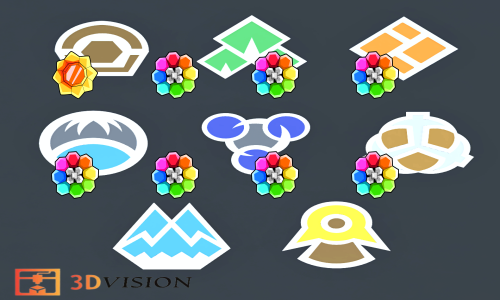
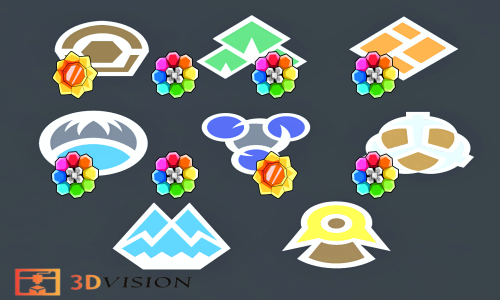
added elo command

Changed region(s): [[0.48, 0.48, 0.6, 0.66]]

diff --git a/commands/utility/calculateelo.js b/commands/utility/calculateelo.js
@@ -1,0 +1,89 @@
+import User from "../../model/user.model.js";
+
+import { SlashCommandBuilder} from 'discord.js';
+
+const data = new SlashCommandBuilder()
+    .setName('calculateelo')
+    .setDescription('Calculate Elo for two users!')
+    .addUserOption(option =>
+        option.setName('winner')
+            .setDescription('The winner user')
+            .setRequired(true))
+    .addUserOption(option =>
+        option.setName('loser')
+            .setDescription('The loser user')
+            .setRequired(true));
+
+async function execute(interaction) {
+    // Obtenemos el objeto User del parámetro 'winner'
+    const winner = interaction.options.getUser('winner');
+
+    // Obtenemos el objeto User del parámetro 'loser'
+    const loser = interaction.options.getUser('loser');
+
+    // Actualizamos el Elo de los usuarios
+    try {
+        const winnerUser = await User.findOneAndUpdate({ _id: winner.id }, { $setOnInsert: { elo: 1000, trainerName: winner.username } }, { upsert: true, new: true });
+        const loserUser = await User.findOneAndUpdate({ _id: loser.id }, { $setOnInsert: { elo: 1000,  trainerName: loser.username } }, { upsert: true, new: true });
+
+        const elow = winnerUser.elo;
+        const elol = loserUser.elo;
+        console.log(elow)
+        // Actualiza el Elo de los usuarios
+        await updateElo(winnerUser._id, loserUser._id);
+
+        const winnerUse = await User.findById(winnerUser._id);
+        const loserUse = await User.findById(loserUser._id);
+        
+        // Respondemos a la interacción
+        await interaction.reply(`Elo updated successfully for ${winner.username} and ${loser.username}!
+        Elo change for ${winner.username}: + ${winnerUse.elo - elow}
+        Elo change for ${loser.username}: - ${elol - loserUse.elo}`);
+    } catch (error) {
+        console.error(error);
+        await interaction.reply('There was an error updating the Elo.');
+    }
+}
+
+async function updateElo(winnerId, loserId) {
+    // Busca al ganador y al perdedor en la base de datos
+    const winner = await User.findById(winnerId);
+    const loser = await User.findById(loserId);
+
+    // Calcula el factor K para cada jugador
+    const kWinner = getKFactor(winner.elo);
+    const kLoser = getKFactor(loser.elo);
+
+    // Calcula el Elo esperado para cada jugador
+    const expectedWinner = 1 / (1 + Math.pow(10, (loser.elo - winner.elo) / 400));
+    const expectedLoser = 1 - expectedWinner;
+
+    // Actualiza el Elo de cada jugador
+    winner.elo = parseInt(Math.round(winner.elo + kWinner * (1 - expectedWinner)), 10);
+    loser.elo = parseInt(Math.round(loser.elo + kLoser * (0 - expectedLoser)), 10);
+      
+    // Establece un piso de calificación de 1000
+    if (winner.elo < 1000) winner.elo = 1000;
+    if (loser.elo < 1000) loser.elo = 1000;
+
+    // Guarda los nuevos valores de Elo en la base de datos
+    await winner.save();
+    await loser.save();
+
+    console.log(`Nuevo Elo del ganador: ${Math.round(winner.elo)}`);
+    console.log(`Nuevo Elo del perdedor: ${Math.round(loser.elo)}`);
+}
+
+function getKFactor(elo) {
+    if (elo < 1100) {
+        return 80 - (30 * (elo - 1000) / 100);
+    } else if (elo < 1300) {
+        return 50;
+    } else if (elo < 1600) {
+        return 40;
+    } else {
+        return 32;
+    }
+}
+
+export default { data, execute };

diff --git a/commands/utility/getElos.js b/commands/utility/getElos.js
@@ -1,0 +1,20 @@
+import User from "../../model/user.model.js";
+
+import { SlashCommandBuilder } from "discord.js";
+
+    const data =new SlashCommandBuilder()
+        .setName('getelos')
+        .setDescription('Obtiene una lista de todos los Elo de mayor a menor');
+    
+        async function execute(interaction) {
+        // Busca todos los usuarios en la base de datos y los ordena por Elo de mayor a menor
+        const users = await User.find().sort({ elo: -1 });
+
+        // Crea una lista de los Elo de los usuarios
+        const eloList = users.map(user => `${user.trainerName}: ${user.elo}`).join('\n');
+
+        // Devuelve la lista de Elo
+        await interaction.reply(eloList);
+    }
+
+export default { data, execute };

diff --git a/testimage.js b/testimage.js
@@ -27,7 +27,7 @@ const medallas = [
 // Cargar imágenes de medallas
 const medallaSilueta = await loadImage('https://images.wikidexcdn.net/mwuploads/wikidex/0/09/latest/20180812034547/Medalla_Arco%C3%ADris.png'); // Ruta de la imagen de la silueta de la medalla
 const medallaColor = await loadImage('https://images.wikidexcdn.net/mwuploads/wikidex/e/e6/latest/20180812014833/Medalla_Trueno.png'); // Ruta de la imagen de la medalla en color
-const medallasConseguidas = [true, false, false, false, false, false, false, false];
+const medallasConseguidas = [true, false, false, false, false, false, true, false];
 
 // Dibujar las medallas en el lienzo
 medallas.forEach((medalla, index) => {

diff --git a/model/user.model.js b/model/user.model.js
@@ -1,4 +1,5 @@
 import mongoose from 'mongoose';
+const { Schema } = mongoose;
 
 // Define el esquema para los perfiles de usuario
 const userSchema = new mongoose.Schema({
@@ -6,6 +7,7 @@ const userSchema = new mongoose.Schema({
     trainerName: String, // Nombre del usuario
     showdownNick: String, // Nick en showdown
     medals: [String], // Lista de medallas
+    elo: { type: Schema.Types.Number, default: 1000 }, // Elo del usuario con valor por defecto de 1000
 });
 
 // Crea el modelo de Mongoose para los perfiles de usuario

diff --git a/elo.js b/elo.js
@@ -25,16 +25,7 @@ class Player {
       this.gamesPlayed++;
     }
   
-    decayElo() {
-      if (this.gamesPlayed > 5) return;
-      let decay = 0;
-      if (this.elo > 1500) {
-        decay = Math.floor((this.elo - 1500) / 100);
-      } else if (this.elo > 1400) {
-        decay = Math.floor((this.elo - 1400) / 50);
-      }
-      this.elo = Math.max(1000, this.elo - decay);
-    }
+
   }
 
   // Crea instancias de la clase Player para cada jugador
